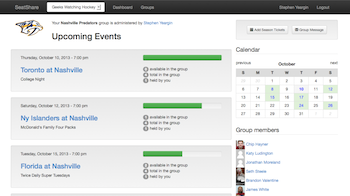
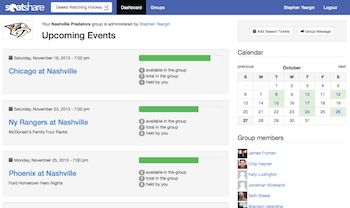
Adds a branding to the user interface.

diff --git a/assets/css/seatshare.css b/assets/css/seatshare.css
@@ -10,3 +10,28 @@ th.action {
 ul.group-members li {
 	margin-bottom: 0.25em;
 }
+
+.navbar-inverse {
+    background-color: #4963AE;
+    border-color: #4963AE;
+}
+
+.navbar-inverse .navbar-nav > li > a {
+	color: #ffffff;
+}
+
+.navbar-inverse .navbar-brand a {
+	color: #ffffff;
+}
+
+.navbar-inverse .logo {
+	background-image: url(../images/seatshare-145x50-inverted.png);
+	height: 50px;
+	width: 145px;
+	overflow-y: hidden;
+}
+
+.navbar-inverse .logo a {
+	display: block;
+	padding-top: 50px;
+}

diff --git a/assets/css/login.css b/assets/css/login.css
@@ -39,5 +39,19 @@ body {
 }
 
 div.logo {
+  background-image: url(../images/seatshare-330x114-transparent.png);
+  background-repeat: no-repeat;
+  width: 330px;
+  height: 114px;
   text-align: center;
+  margin-left: auto;
+  margin-right: auto;
+  overflow-y: hidden;
 }
+
+div.logo a {
+  display: block;
+  width: 330px;
+  padding-top: 115px;
+}
+div.logo

diff --git a/application/views/layouts/_navbar.php b/application/views/layouts/_navbar.php
@@ -6,7 +6,9 @@
         <span class="icon-bar"></span>
         <span class="icon-bar"></span>
       </button>
-      <a class="navbar-brand" href="<?php echo site_url('/'); ?>"><?php echo $this->config->item('application_name'); ?></a>
+      <div class="logo">
+        <a class="navbar-brand" href="<?php echo site_url('/'); ?>"><?php echo $this->config->item('application_name'); ?></a>
+      </div>
     </div>
     <div class="navbar-collapse collapse">
       <?php if ($this->user_model->isLoggedIn()): ?>
